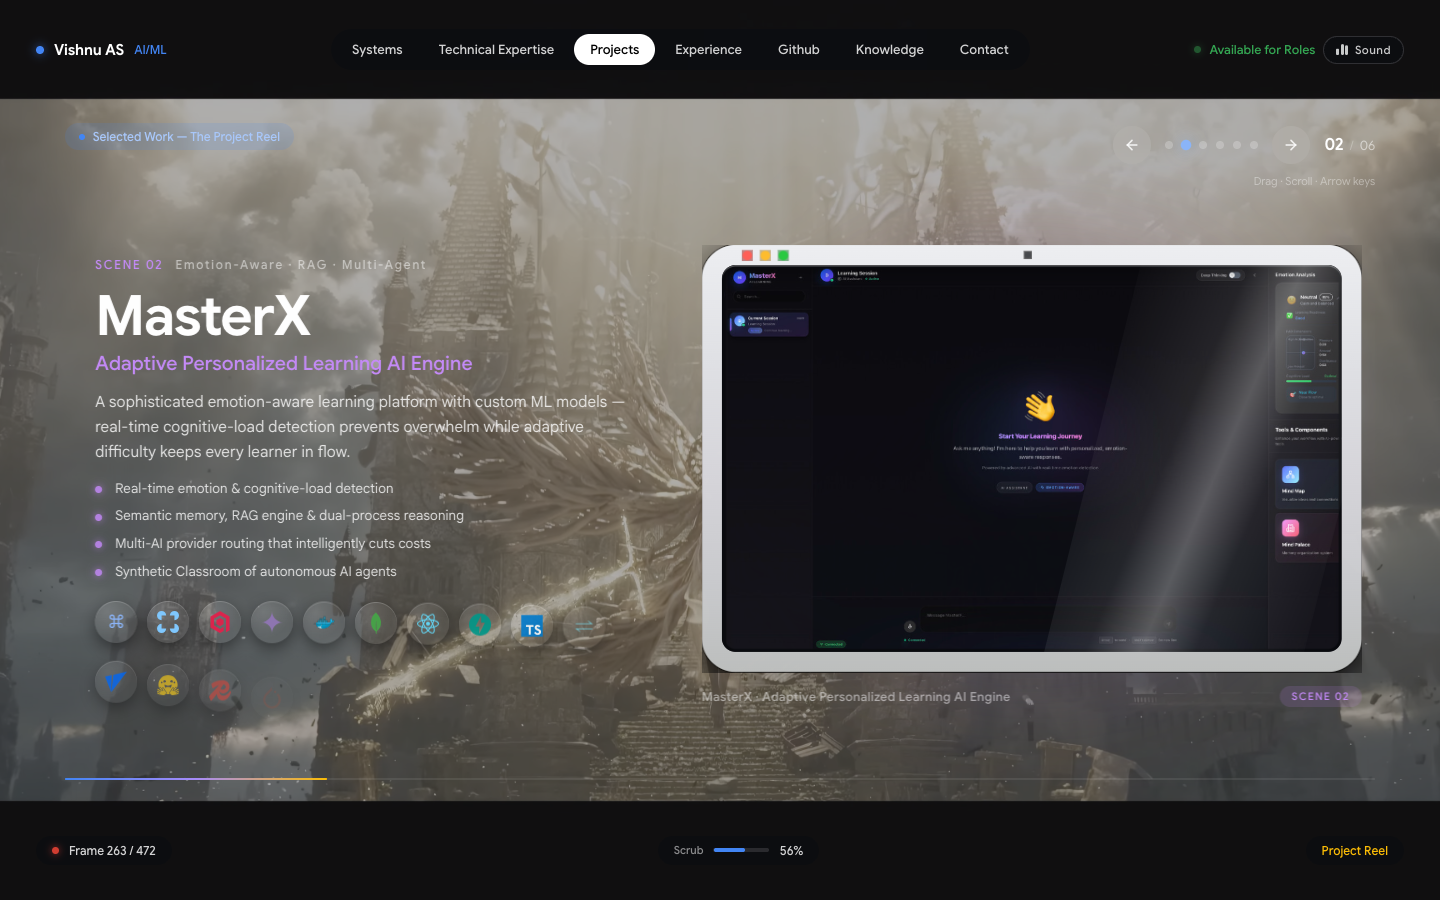
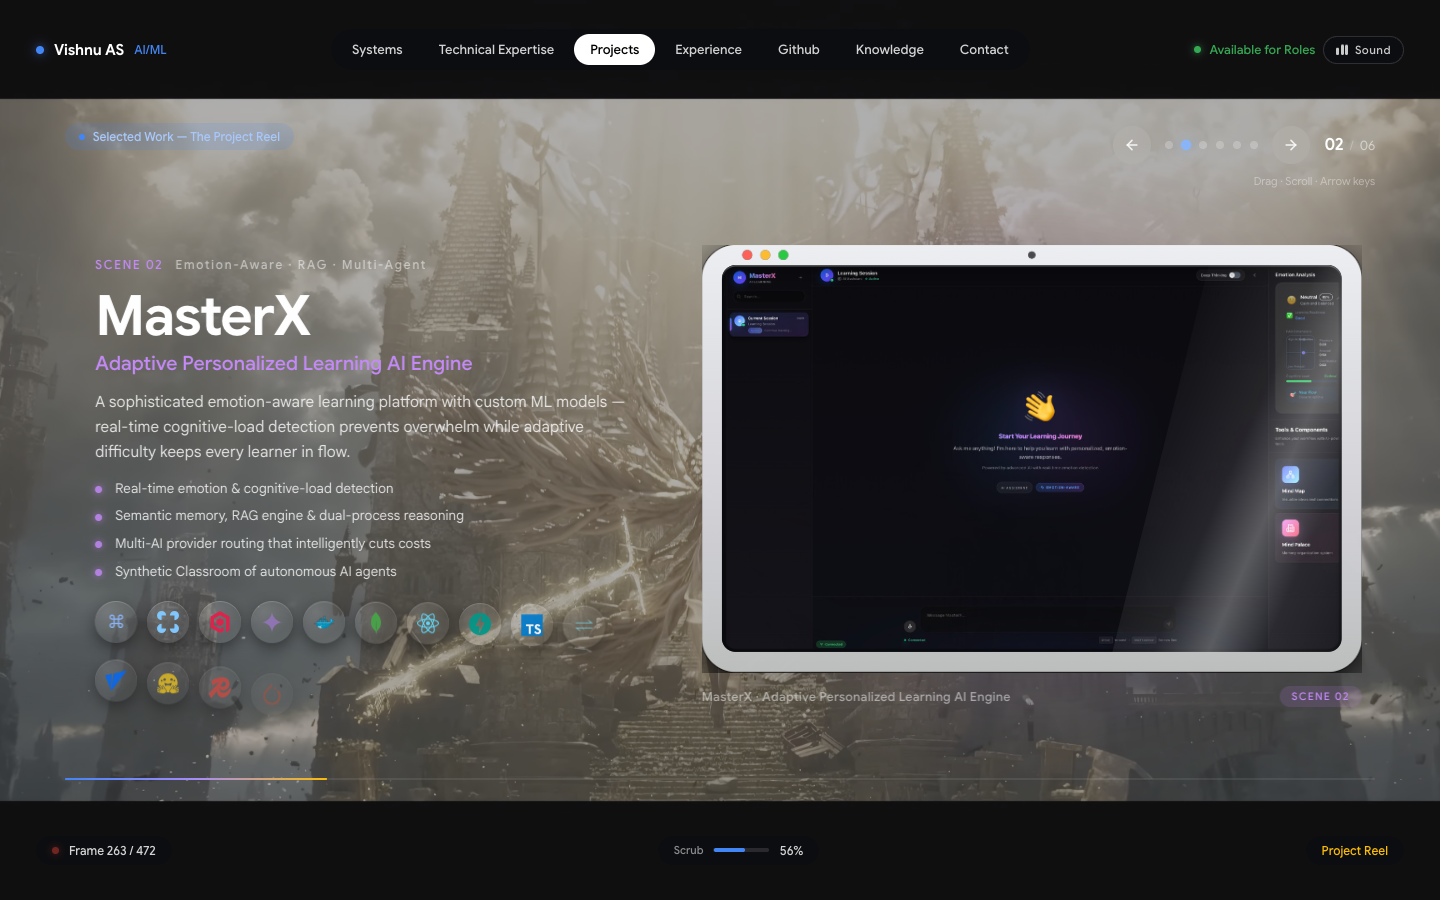
Macos realistic navigations added

Changed region(s): [[0.75, 0.28, 0.9375, 0.7467], [0.0938, 0.7467, 0.1562, 0.7778]]

diff --git a/style.css b/style.css
@@ -4368,25 +4368,18 @@ html.js body.is-ready .hero-scroll-cue {
   border-radius: var(--frame-r);
   background-origin: border-box;
   background-repeat: no-repeat;
-  background-position:
-    var(--tl-x) calc(var(--bezel) / 2 - var(--tl-d) / 2),
-    calc(var(--tl-x) + var(--tl-gap)) calc(var(--bezel) / 2 - var(--tl-d) / 2),
-    calc(var(--tl-x) + var(--tl-gap) * 2) calc(var(--bezel) / 2 - var(--tl-d) / 2),
-    calc(50% - var(--cam-d) / 2) calc(var(--bezel) / 2 - var(--cam-d) / 2),
-    0 0;
-  background-size:
-    var(--tl-d) var(--tl-d),
-    var(--tl-d) var(--tl-d),
-    var(--tl-d) var(--tl-d),
-    var(--cam-d) var(--cam-d),
-    100% 100%;
+  background-position: 0 0;
+  background-size: 100% 100%;
   background-image:
-    /* traffic lights - close / minimise / zoom */
-    radial-gradient(circle closest-side, #ff5f57 calc(100% - 1.5px), rgba(140, 24, 18, 0.5) 100%),
-    radial-gradient(circle closest-side, #febc2e calc(100% - 1.5px), rgba(150, 104, 12, 0.45) 100%),
-    radial-gradient(circle closest-side, #28c940 calc(100% - 1.5px), rgba(12, 112, 32, 0.5) 100%),
-    /* FaceTime camera */
-    radial-gradient(circle closest-side, #46484d calc(100% - 2px), rgba(0, 0, 0, 0.65) 100%),
+    /* macOS traffic lights - close / minimise / zoom. All four dots live in
+       one full-frame layer: an explicit circle radius + centre keeps them
+       true circles at any bezel size, and the transparent tail stop stops the
+       ring colour bleeding past the ending shape (which squared them off). */
+    radial-gradient(circle calc(var(--tl-d) / 2) at calc(var(--tl-x) + var(--tl-d) / 2) calc(var(--bezel) / 2), #ff5f57 calc(100% - 1.5px), rgba(140, 24, 18, 0.5) calc(100% - 0.5px), rgba(140, 24, 18, 0) 100%),
+    radial-gradient(circle calc(var(--tl-d) / 2) at calc(var(--tl-x) + var(--tl-gap) + var(--tl-d) / 2) calc(var(--bezel) / 2), #febc2e calc(100% - 1.5px), rgba(150, 104, 12, 0.45) calc(100% - 0.5px), rgba(150, 104, 12, 0) 100%),
+    radial-gradient(circle calc(var(--tl-d) / 2) at calc(var(--tl-x) + var(--tl-gap) * 2 + var(--tl-d) / 2) calc(var(--bezel) / 2), #28c940 calc(100% - 1.5px), rgba(12, 112, 32, 0.5) calc(100% - 0.5px), rgba(12, 112, 32, 0) 100%),
+    /* FaceTime camera, dead-centre on the frame axis */
+    radial-gradient(circle calc(var(--cam-d) / 2) at 50% calc(var(--bezel) / 2), #46484d calc(100% - 2px), rgba(0, 0, 0, 0.65) calc(100% - 0.5px), rgba(0, 0, 0, 0) 100%),
     /* aluminium shell - lit from above (CSSDevices silver palette) */
     linear-gradient(180deg, #eeeff2 0%, #e0e1e5 28%, #d6d5da 55%, #c9cacd 80%, #bdbfbe 100%);
   box-shadow:
